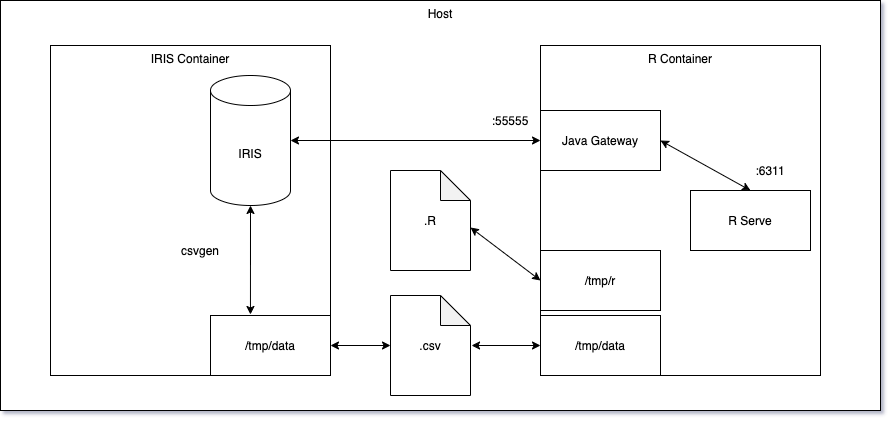
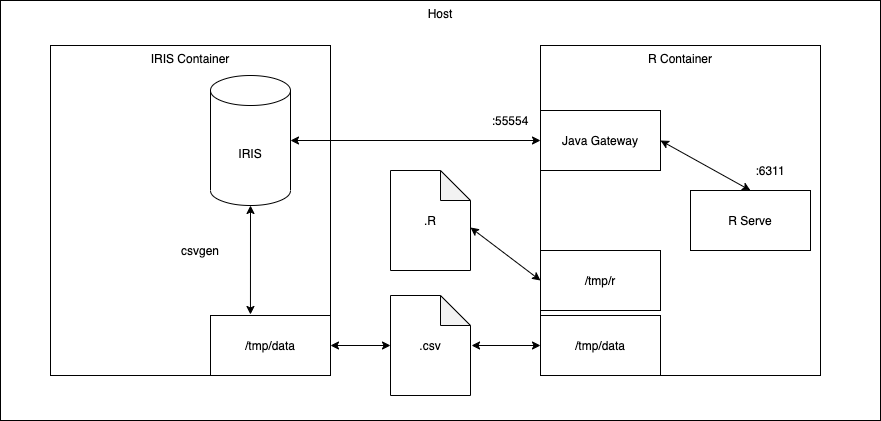
Updated readme

diff --git a/README.md b/README.md
@@ -63,9 +63,11 @@ then :
 docker compose up
 ```
 
-## Play the demo
+## Play with this template
 
-Run the following ObjectScript commands :
+Run the following ObjectScript commands
+
+### Run random R expression
 
 ```objectscript
 do ##class(Demo.RGateway).RunEval()
@@ -96,3 +98,114 @@ ClassMethod RunEval() As %Status
     Return tSC
 }
 ```
+
+### Run R expression from IRIS SQL
+
+```objectscript
+do ##class(Demo.RGateway).FromSQLOnIris()
+```
+
+output :
+
+```
+"mean = 0.5239920995930093"
+"median = 0.545"
+```
+
+code : 
+
+```objectscript
+ClassMethod FromSQLOnIris()
+{
+    set gateway = ##class(%Net.Remote.Gateway).%New()
+    set tSC = gateway.%Connect("r",55554)
+	if $$$ISERR(tSC) quit
+		
+	set c = ##class(%Net.Remote.Object).%ClassMethod(.gateway,"com.intersystems.rgateway.Helper","createRConnection")
+	
+	// SQL Query
+	set q = "select length from Test.Data"
+	set resultSet = ##class(%SQL.Statement).%ExecDirect( , .q)
+
+	// Prepare R vector
+ 	do c.eval("l = c()")
+ 	while resultSet.%Next() {
+		 // Append resultSet to the R vector
+ 		do c.assign("x", ##class(%Net.Remote.Object).%New(gateway, "org.rosuda.REngine.REXPDouble", resultSet.Length))
+ 		do c.eval("l = append(l, c(x))")
+ 	}
+ 	
+	// Produce mean from R
+	zw "mean = " _c.eval("mean(l)").asString()
+
+	// Produce median from R
+	zw "median = "_c.eval("median(l)").asString()
+
+	do:c'="" c.close()
+	do:gateway'="" gateway.%Disconnect()
+	quit
+}
+```
+
+### Run R Script and produce plot
+
+```objectscript
+do ##class(Demo.RGateway).FromCSVOnRServe()
+```
+
+output :
+
+```
+"mean = 0.5239920995930093"
+"median = 0.545"
+"mode = 0.55"
+"plot produced in /tmp/data/hist.png"
+"plot produced in /tmp/data/hist.jpeg"
+"plot produced in /tmp/data/hist.pdf"
+```
+
+code : 
+
+```objectscript
+ClassMethod FromCSVOnRServe()
+{
+    set gateway = ##class(%Net.Remote.Gateway).%New()
+    set tSC = gateway.%Connect("r",55554)
+	if $$$ISERR(tSC) quit
+		
+	set c = ##class(%Net.Remote.Object).%ClassMethod(.gateway,"com.intersystems.rgateway.Helper","createRConnection")
+	
+	set filename = "/tmp/data/abalone.csv"
+	// assign an R variable for the script file 
+	do c.assign("filename", filename)
+	// Read the file from the R server
+	do c.eval("data = read.csv(filename)")
+
+	zw "mean = "_c.eval("mean(data$Length)").asString()
+ 		
+	zw "median = "_c.eval("median(data$Length)").asString()
+ 		
+	// call function from r script
+	do c.assign("rFile", "/tmp/r/src/test.R")
+	do c.eval("source(rFile)") 
+ 		
+	zw "mode = "_c.eval("getMode(data$Length)").asString()
+	
+	do c.assign("dir", "/tmp/data")
+
+	// produce plot PNG
+	do c.eval("createHistPNG(data$Rings, dir, ""Rings"")")
+	zw "plot produced in /tmp/data/hist.png"
+	// produce plot JPG
+	do c.eval("createHistJPG(data$Rings, dir, ""Rings"")")
+	zw "plot produced in /tmp/data/hist.jpeg"
+	// produce plot PDF
+	do c.eval("createHistPDF(data$Rings, dir, ""Rings"")")
+	zw "plot produced in /tmp/data/hist.pdf"
+	
+	do:c'="" c.close()
+	do:gateway'="" gateway.%Disconnect()
+	quit
+}
+```
+
